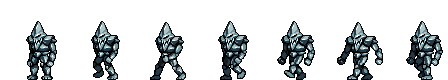
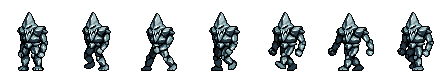
golem의 이미지 수정, 테스트용으로 바꿔놨던 모든값 원상복구, 상승한 건물들의 체력이 체력게이지에 반영되지 않는 버그 수정

diff --git a/Assets/Units/Enemy/Scripts/EnemyBuildingScript.cs b/Assets/Units/Enemy/Scripts/EnemyBuildingScript.cs
@@ -31,8 +31,10 @@ public class EnemyBuildingScript : MonoBehaviour
     private float heart = 10000f;
     [SerializeField]
     private float heartUp = 1000f;
-    private float dp = 10f;
-    private float dpUp = 1f;
+    [SerializeField]
+    private float dp = 2f;
+    [SerializeField]
+    private float dpUp = 1.1f;
 
     private float firstHeart = 0f;
 
@@ -118,7 +120,11 @@ public class EnemyBuildingScript : MonoBehaviour
             strongestSpawned[i] = false;
         }
 
-        for(int i = 0; i < gameManager.GetSaveData().currentStage; i++)
+        int j = 0;
+        for(j = 0; j < gameManager.GetSaveData().currentStage; j++)
+            setStat();
+
+        if(j == 0)
             setStat();
 
         destroy1Played = false;
@@ -127,7 +133,9 @@ public class EnemyBuildingScript : MonoBehaviour
     private void setStat() // 나중에 건물 업그레이드 기능을 넣었을 때 제대로 작동시킬것
     {
         heart = firstHeart + heartUp;
+        SetMaxHealth();
         firstHeart = heart;
+
         dp = dpUp;
     }
     void Breaking()

diff --git a/Assets/Units/Player/Scripts/BuildingScript.cs b/Assets/Units/Player/Scripts/BuildingScript.cs
@@ -26,6 +26,7 @@ public class BuildingScript : MonoBehaviour
     private float firstHeart = 0f;
     [SerializeField]
     private float heartUp = 1000f;
+    [SerializeField]
     private float dp = 1f;
     private float firstDp = 0f;
     [SerializeField]
@@ -118,6 +119,8 @@ public class BuildingScript : MonoBehaviour
     {
         heart = firstHeart + heartUp * saveData.unitHeartLev[0];
         saveData.heart[0] = firstHeart = heart;
+
+        SetMaxHealth();
 
         dp = firstDp + dpUp * saveData.unitDpLev[0];
         saveData.dp[0] = firstDp = dp;

diff --git a/Assets/Units/Enemy/Scripts/EnemyScript.cs b/Assets/Units/Enemy/Scripts/EnemyScript.cs
@@ -25,6 +25,7 @@ public class EnemyScript : MonoBehaviour
     protected UnitScript shortestScript = null;
     [SerializeField]
     protected EnemyScript shortestEnemyScript = null;
+    
     [SerializeField]
     protected Strongest1Script strongest1Script = null;
 
